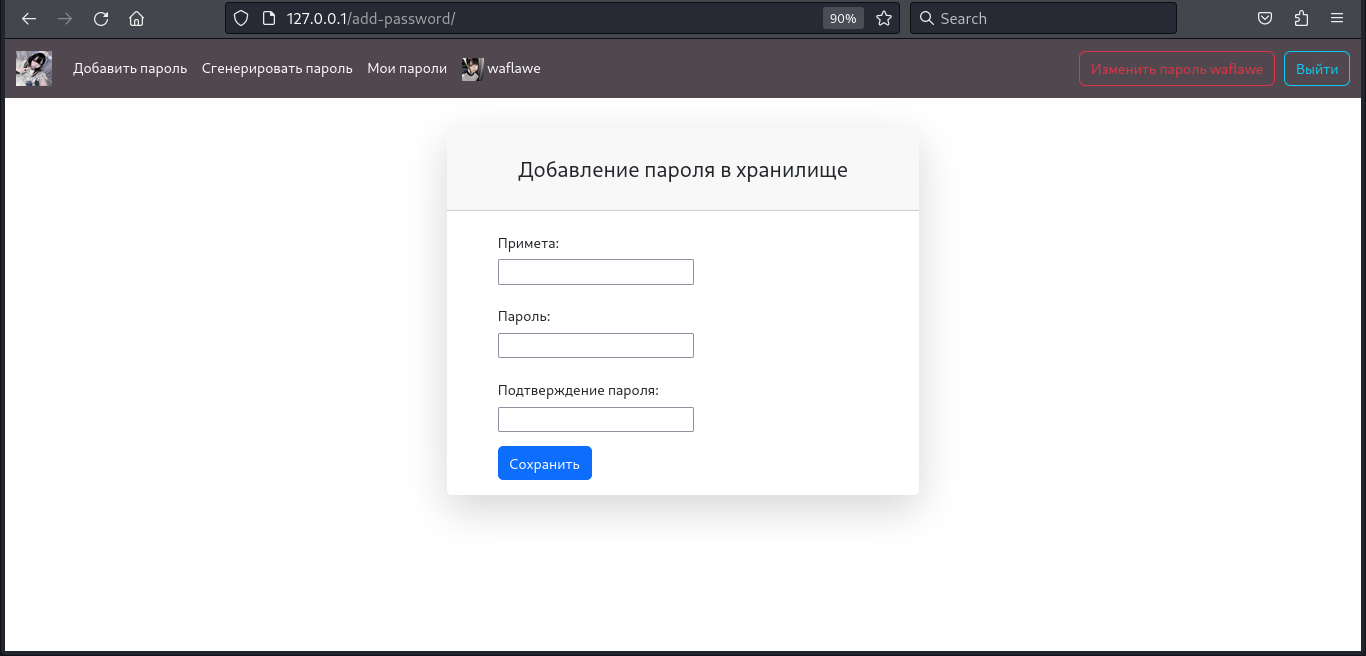
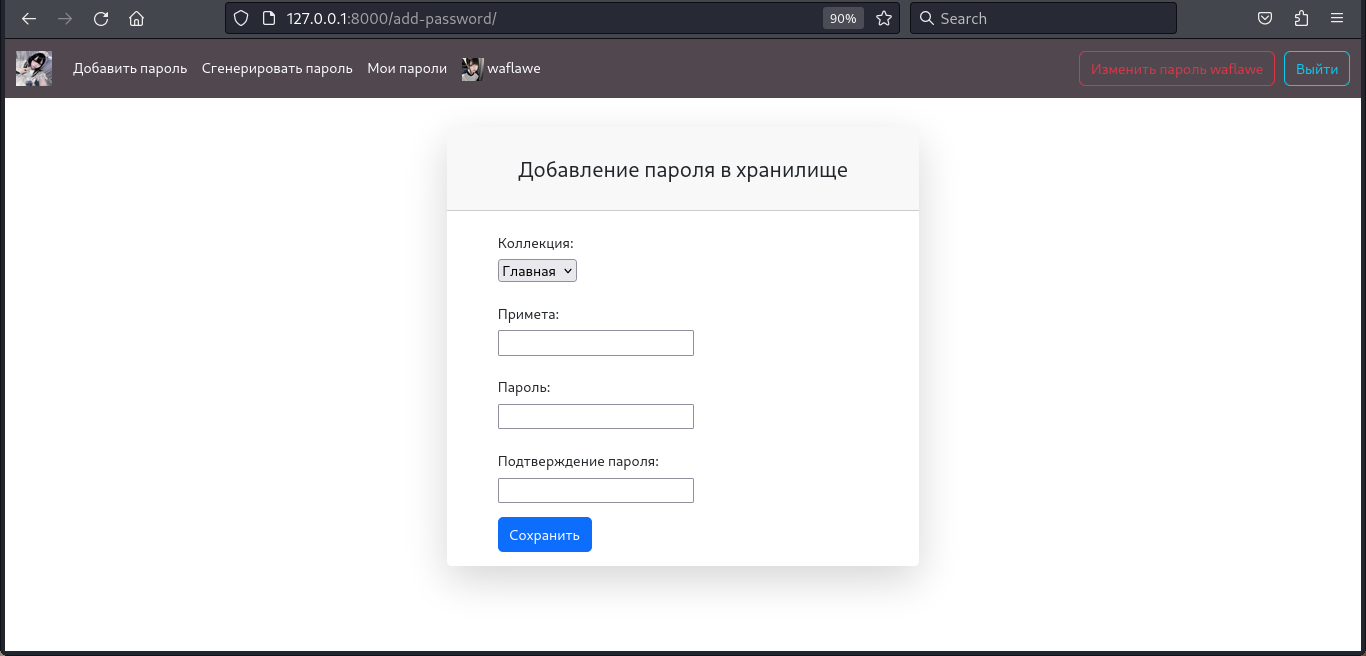
Update READMEs and screenshots.

diff --git a/exinakai/templates/exinakai/all_passwords.html b/exinakai/templates/exinakai/all_passwords.html
@@ -82,7 +82,6 @@
     <br>
     {% for collection in collections %}
         <div class="container border border-success rounded-2 p-3 dropdowncollection" style="margin-left: 40px;">
-
                 <div style="display: flex; justify-content: space-between">
                     <div style="display: flex; flex-direction: column;">
                         <h4 style="text-align: left">
@@ -91,14 +90,14 @@
                     </div>
                     {% if forloop.counter0 > 0 %}
                     <div class="d-flex justify-content-between" style="flex-direction: column;">
-                        <p style="text-align: right; padding-right: 20px;">
+                        <span style="text-align: right; padding-right: 20px;">
                             <a class="btn btn-danger" href="{% url 'exinakai:delete-collection' collection.collection.id %}">
                                 <svg xmlns="http://www.w3.org/2000/svg" width="15" height="15" fill="currentColor" class="bi bi-trash" viewBox="0 0 16 16">
                                   <path d="M5.5 5.5A.5.5 0 0 1 6 6v6a.5.5 0 0 1-1 0V6a.5.5 0 0 1 .5-.5m2.5 0a.5.5 0 0 1 .5.5v6a.5.5 0 0 1-1 0V6a.5.5 0 0 1 .5-.5m3 .5a.5.5 0 0 0-1 0v6a.5.5 0 0 0 1 0z"/>
                                   <path d="M14.5 3a1 1 0 0 1-1 1H13v9a2 2 0 0 1-2 2H5a2 2 0 0 1-2-2V4h-.5a1 1 0 0 1-1-1V2a1 1 0 0 1 1-1H6a1 1 0 0 1 1-1h2a1 1 0 0 1 1 1h3.5a1 1 0 0 1 1 1zM4.118 4 4 4.059V13a1 1 0 0 0 1 1h6a1 1 0 0 0 1-1V4.059L11.882 4zM2.5 3h11V2h-11z"/>
                                 </svg>
                             </a>
-                        </p>
+                        </span>
                     </div>
                     {% endif %}
                 </div>

diff --git a/README.md b/README.md
@@ -83,7 +83,15 @@ docker-compose up
 2. Чтение паролей и поиск по их приметам
 3. Удаление паролей  
 
-Так же имеется встроенный гибкий генератор паролей. Он работает даже без передачи верного ключа 
+Так же в `eXinakai` действует удобная система коллекций для паролей. Она позволяет собрать набор неограниченного числа 
+паролей в одном месте, что позволяет лучше ориентироваться в менеджере, когда их не мало. Внутри системы можно:
+
+1. Добавлять коллекции
+2. Удалять коллекции
+3. Добавлять пароли к коллекции
+4. Менять коллекцию пароля  
+
+Еще имеется встроенный гибкий генератор паролей. Он работает даже без передачи верного ключа 
 шифрования, просто войдя в аккаунт.
 ## Скриншоты <a name="screenshots"></a>
 ### Работа с аккаунтом <a name="account-management-1"></a>
@@ -106,5 +114,7 @@ docker-compose up
    <img alt="Чтение паролей" height="336" src=".githubscreenshots/all-passwords.png" width="700"/>
 3. Генерация паролей:  
    <img alt="Генерация паролей" height="336" src=".githubscreenshots/generate-password.png" width="700"/>
+4. Добавление коллекции паролей:  
+   <img alt="Добавление коллекции паролей" height="336" src=".githubscreenshots/add-collection.png" width="700"/>
 ## Лицензия <a name="license"></a>
 Этот проект лицензирован [MIT лицензией](https://github.com/waflawe/eXinakai/blob/main/LICENSE).

diff --git a/README-en.md b/README-en.md
@@ -83,6 +83,15 @@ If the encryption key is correct, you can perform the following actions with pas
 2. Read passwords and search by their notes
 3. Deleting passwords  
 
+Also `eXinakai` has a convenient collection system for passwords. It allows you to collect a set of an unlimited number 
+of passwords in one place, which allows you to better navigate the manager when there are not a few of them. Within the 
+system, you can:
+
+1. Add collections
+2. Delete collections
+3. Add passwords to a collection
+4. Change a password collection  
+
 There is also a built-in flexible password generator. It works even without passing the correct
 encryption key by simply logging into your account.
 ## Screenshots <a name="screenshots"></a>
@@ -106,5 +115,7 @@ encryption key by simply logging into your account.
    <img alt="Reading passwords" height="336" src=".githubscreenshots/all-passwords.png" width="700"/>
 3. Password Generation:  
    <img alt="Generating passwords" height="336" src=".githubscreenshots/generate-password.png" width="700"/>
+4. Adding a password collection:  
+   <img alt="Adding a password collection" height="336" src=".githubscreenshots/add-collection.png" width="700"/>
 ## License <a name="license"></a>
 This project is licensed by [MIT license](https://github.com/waflawe/eXinakai/blob/main/LICENSE).
